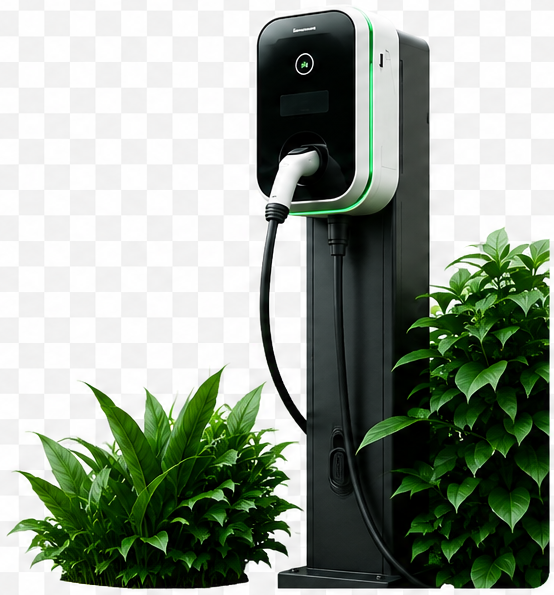
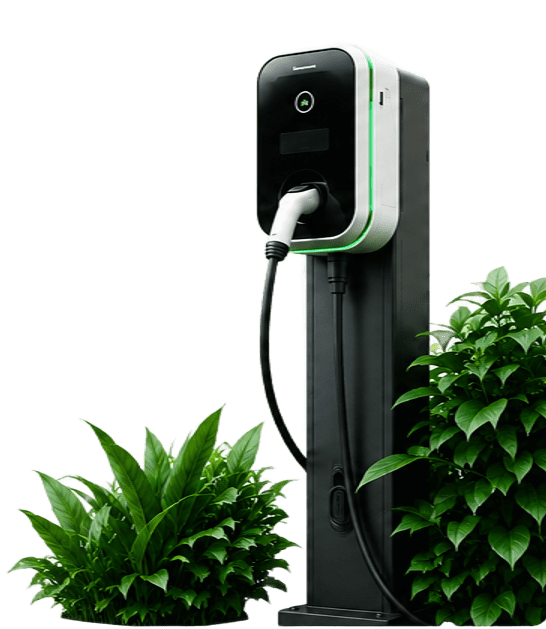
Updated Version

Changed region(s): [[0.0, 0.0, 1.0, 0.9983]]

diff --git a/station-details.js b/station-details.js
@@ -155,101 +155,65 @@ let mapInstance;
 let mapMarker;
 
 window.initMap = function() {
-  if (typeof google === 'undefined' || !google.maps) {
-    updateMapLocation();
-    return;
-  }
   const defaultLoc = { lat: 20.5937, lng: 78.9629 }; // Center of India
-  try {
-    mapInstance = new google.maps.Map(document.getElementById('actualMap'), {
-      zoom: 12,
-      center: defaultLoc,
-      mapTypeControl: false,
-      streetViewControl: false,
-      fullscreenControl: false,
-      styles: [
-        { elementType: "geometry", stylers: [{ color: "#212121" }] },
-        { elementType: "labels.icon", stylers: [{ visibility: "off" }] },
-        { elementType: "labels.text.fill", stylers: [{ color: "#757575" }] },
-        { elementType: "labels.text.stroke", stylers: [{ color: "#212121" }] },
-        { featureType: "administrative", elementType: "geometry", stylers: [{ color: "#757575" }] },
-        { featureType: "administrative.country", elementType: "labels.text.fill", stylers: [{ color: "#9e9e9e" }] },
-        { featureType: "administrative.land_parcel", stylers: [{ visibility: "off" }] },
-        { featureType: "administrative.locality", elementType: "labels.text.fill", stylers: [{ color: "#bdbdbd" }] },
-        { featureType: "poi", elementType: "labels.text.fill", stylers: [{ color: "#757575" }] },
-        { featureType: "poi.park", elementType: "geometry", stylers: [{ color: "#181818" }] },
-        { featureType: "poi.park", elementType: "labels.text.fill", stylers: [{ color: "#616161" }] },
-        { featureType: "poi.park", elementType: "labels.text.stroke", stylers: [{ color: "#1b1b1b" }] },
-        { featureType: "road", elementType: "geometry.fill", stylers: [{ color: "#2c2c2c" }] },
-        { featureType: "road", elementType: "labels.text.fill", stylers: [{ color: "#8a8a8a" }] },
-        { featureType: "road.arterial", elementType: "geometry", stylers: [{ color: "#373737" }] },
-        { featureType: "road.highway", elementType: "geometry", stylers: [{ color: "#3c3c3c" }] },
-        { featureType: "road.highway.controlled_access", elementType: "geometry", stylers: [{ color: "#4e4e4e" }] },
-        { featureType: "road.local", elementType: "labels.text.fill", stylers: [{ color: "#616161" }] },
-        { featureType: "transit", elementType: "labels.text.fill", stylers: [{ color: "#757575" }] },
-        { featureType: "water", elementType: "geometry", stylers: [{ color: "#000000" }] },
-        { featureType: "water", elementType: "labels.text.fill", stylers: [{ color: "#3d3d3d" }] }
-      ]
-    });
-  } catch (e) {
-    console.warn("Google Maps init error, falling back to OpenStreetMap", e);
-  }
+  mapInstance = new google.maps.Map(document.getElementById('actualMap'), {
+    zoom: 12,
+    center: defaultLoc,
+    mapTypeControl: false,
+    streetViewControl: false,
+    fullscreenControl: false,
+    styles: [
+      { elementType: "geometry", stylers: [{ color: "#212121" }] },
+      { elementType: "labels.icon", stylers: [{ visibility: "off" }] },
+      { elementType: "labels.text.fill", stylers: [{ color: "#757575" }] },
+      { elementType: "labels.text.stroke", stylers: [{ color: "#212121" }] },
+      { featureType: "administrative", elementType: "geometry", stylers: [{ color: "#757575" }] },
+      { featureType: "administrative.country", elementType: "labels.text.fill", stylers: [{ color: "#9e9e9e" }] },
+      { featureType: "administrative.land_parcel", stylers: [{ visibility: "off" }] },
+      { featureType: "administrative.locality", elementType: "labels.text.fill", stylers: [{ color: "#bdbdbd" }] },
+      { featureType: "poi", elementType: "labels.text.fill", stylers: [{ color: "#757575" }] },
+      { featureType: "poi.park", elementType: "geometry", stylers: [{ color: "#181818" }] },
+      { featureType: "poi.park", elementType: "labels.text.fill", stylers: [{ color: "#616161" }] },
+      { featureType: "poi.park", elementType: "labels.text.stroke", stylers: [{ color: "#1b1b1b" }] },
+      { featureType: "road", elementType: "geometry.fill", stylers: [{ color: "#2c2c2c" }] },
+      { featureType: "road", elementType: "labels.text.fill", stylers: [{ color: "#8a8a8a" }] },
+      { featureType: "road.arterial", elementType: "geometry", stylers: [{ color: "#373737" }] },
+      { featureType: "road.highway", elementType: "geometry", stylers: [{ color: "#3c3c3c" }] },
+      { featureType: "road.highway.controlled_access", elementType: "geometry", stylers: [{ color: "#4e4e4e" }] },
+      { featureType: "road.local", elementType: "labels.text.fill", stylers: [{ color: "#616161" }] },
+      { featureType: "transit", elementType: "labels.text.fill", stylers: [{ color: "#757575" }] },
+      { featureType: "water", elementType: "geometry", stylers: [{ color: "#000000" }] },
+      { featureType: "water", elementType: "labels.text.fill", stylers: [{ color: "#3d3d3d" }] }
+    ]
+  });
 
   if (currentStation && currentStation.latitude && currentStation.longitude) {
     updateMapLocation();
   }
 };
 
-// Catch Google Maps API auth error if placeholder key is used
-window.gm_authFailure = function() {
-  console.warn("Google Maps Auth Failure - rendering fallback map");
-  updateMapLocation();
-};
-
 function updateMapLocation() {
-  if (!currentStation || !currentStation.latitude || !currentStation.longitude) return;
-  const lat = currentStation.latitude;
-  const lng = currentStation.longitude;
-  const mapEl = document.getElementById('actualMap');
-  if (!mapEl) return;
-
-  if (typeof google !== 'undefined' && google.maps && mapInstance) {
-    const loc = { lat: lat, lng: lng };
-    mapInstance.setCenter(loc);
-    mapInstance.setZoom(15);
-    
-    if (mapMarker) {
-      mapMarker.setPosition(loc);
-    } else {
-      mapMarker = new google.maps.Marker({
-        position: loc,
-        map: mapInstance,
-        title: currentStation.name,
-        icon: {
-          path: google.maps.SymbolPath.CIRCLE,
-          fillColor: '#A1FEA0',
-          fillOpacity: 1,
-          strokeColor: '#000',
-          strokeWeight: 2,
-          scale: 8
-        }
-      });
-    }
+  if (!mapInstance || !currentStation) return;
+  const loc = { lat: currentStation.latitude, lng: currentStation.longitude };
+  mapInstance.setCenter(loc);
+  mapInstance.setZoom(15);
+  
+  if (mapMarker) {
+    mapMarker.setPosition(loc);
   } else {
-    // Fallback dark interactive map embed
-    const bbox = `${lng - 0.008},${lat - 0.008},${lng + 0.008},${lat + 0.008}`;
-    mapEl.innerHTML = `
-      <iframe 
-        width="100%" 
-        height="100%" 
-        frameborder="0" 
-        scrolling="no" 
-        marginheight="0" 
-        marginwidth="0" 
-        src="https://www.openstreetmap.org/export/embed.html?bbox=${bbox}&layer=mapnik&marker=${lat},${lng}"
-        style="border: none; width: 100%; height: 100%; filter: invert(90%) hue-rotate(180deg) brightness(95%) contrast(90%);">
-      </iframe>
-    `;
+    mapMarker = new google.maps.Marker({
+      position: loc,
+      map: mapInstance,
+      title: currentStation.name,
+      icon: {
+        path: google.maps.SymbolPath.CIRCLE,
+        fillColor: '#A1FEA0',
+        fillOpacity: 1,
+        strokeColor: '#000',
+        strokeWeight: 2,
+        scale: 8
+      }
+    });
   }
 }
 

diff --git a/station-details.html b/station-details.html
@@ -165,6 +165,6 @@
 
   <script src="script.js"></script>
   <script src="station-details.js"></script>
-  <script async defer src="https://maps.googleapis.com/maps/api/js?key=YOUR_GOOGLE_MAPS_API_KEY&callback=initMap"></script>
+  <script async defer src="https://maps.googleapis.com/maps/api/js?key=AIzaSyC77PK_Eb8P9A3rt-A6e9CP8-BbGcFJgWI&callback=initMap"></script>
 </body>
 </html>
